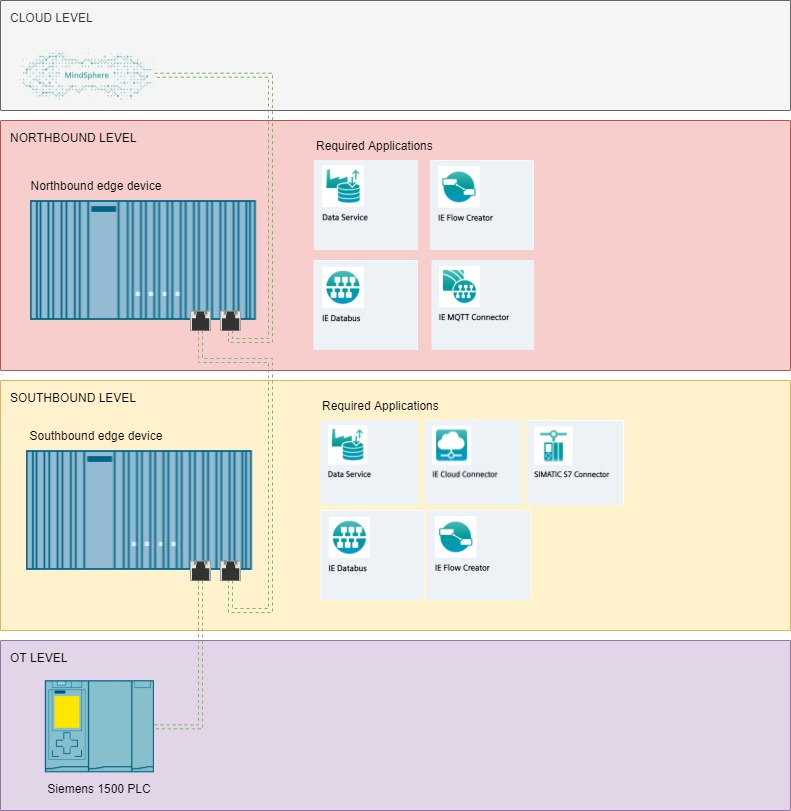
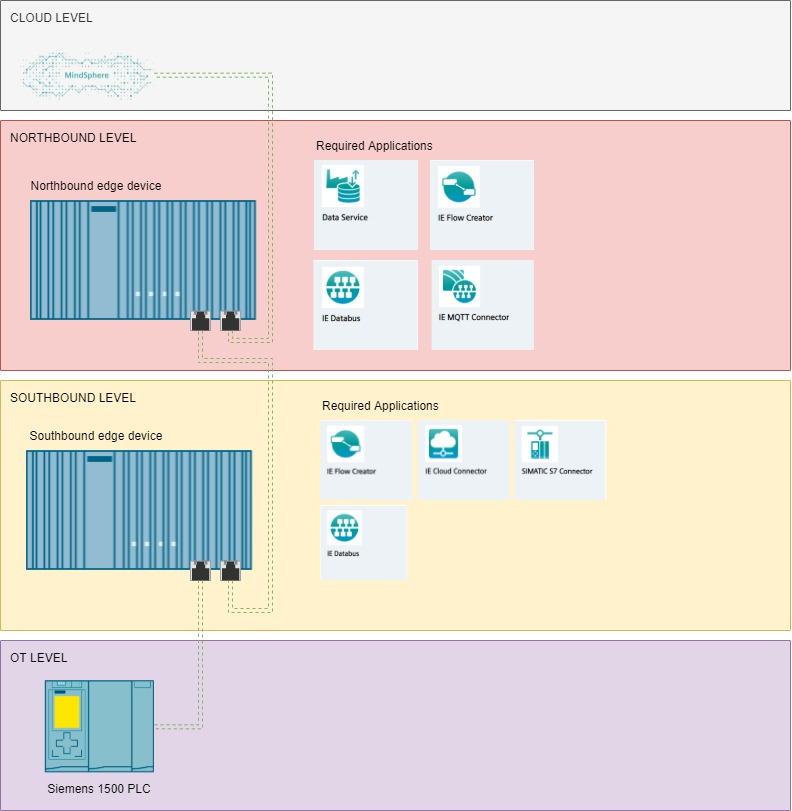
b

diff --git a/northbound southbound edge devices/README.md b/northbound southbound edge devices/README.md
@@ -3,3 +3,35 @@ Connecting edge devices to connect to a cloud service or do centralized dashboar
 
 ## Overview
 ![Overview](files/northBoundSouthbound.jpg)
+
+### Setup
+
+- Cloud
+  - Connected to PORT 2 on edge device.
+- Northbound edge device
+  - Uses Port 1 for Southbound connection
+  - Uses Port 2 for cloud connection
+  - Applications
+    - Dataservice
+      - Saves data from southbound device in database
+    - Flow creator
+      - Checks if data is flowing - for debugging
+    - IE Databus
+      - Is used as data channel - MQTT broker
+    - IE MQTT Connector
+      - Connects to the IE Cloud Connector of southbound device.
+
+- Southbound edge device
+  - Uses Port 1 For Northbound connection
+  - Uses Port 2 for OT level Connection
+  - Applications    
+    - IE Cloud Connector
+      - Sends incoming data to another channel for northbound device to listen to.
+    - Simatic s7 Connector
+      - Connects to the PLC and publishes data over the databus. 
+    - IE Databus
+      - Is used as data channel - MQTT broker
+    - Flow Creator
+      - Checks if data is flowing - for debugging
+- OT Level PLC
+  - [Uses Tia Tank sample application](https://github.com/industrial-edge/miscellaneous#tank-application)
